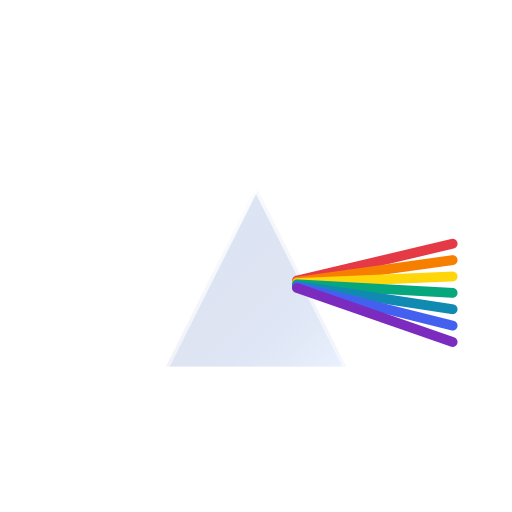
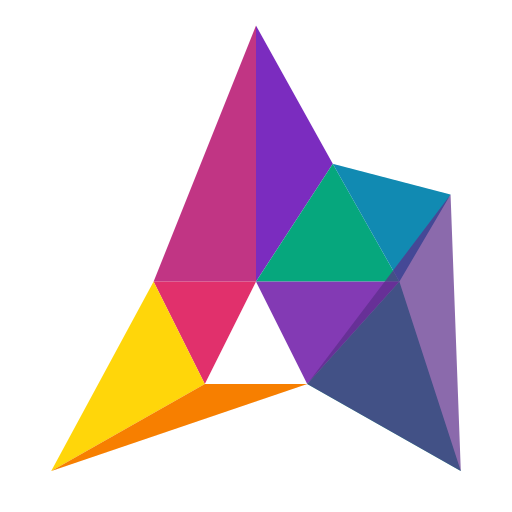
feat: Prism ロゴをユーザー指定の多面体三角プリズムに差し替え
【新 Prism ロゴ】
ユーザー提供の参考画像に基づき、三角形を 9 のポリゴンパネルに
分割した「3D 折り紙風」の多面体プリズム。

色配置 (虹のスペクトル順を維持):
- 上部左: マゼンタ #C13584
- 上部右上: 紫 #7B2CBF
- 上中央右下: ティール #06A77D
- 右上面: 青 #118AB2
- 中央: ホットピンク #E1306C
- 中央右: パープル #833AB4
- 下左: 黄 #FFD60A
- 下中央: オレンジ #F77F00
- 下右: 緑 #06A77D
- アクセント: 深紫 #5B2C8A

ガラス表現/光線エフェクトを廃止し、シンプルで簡易的な
幾何学アイコンに刷新。アプリ UI と完全に統一されたフラットデザイン。

【出力】
- src/components/Logo.tsx の PrismLogo を全面書き換え
- /public/prism-icon.svg, .png を更新
- ~/Desktop/ に各種バリエーションを保存:
  - CORE_Prism_Logo.png (白背景・横長)
  - CORE_Prism_Logo_Black.png (黒背景・横長)
  - CORE_Prism_Icon.png (白背景 1024px)
  - CORE_Prism_Icon_Black.png (黒背景 1024px)
  - CORE_Prism_Icon_Transparent.png (透過 1024px)
  - CORE_Prism_Logo.svg / Icon.svg

diff --git a/src/components/Logo.tsx b/src/components/Logo.tsx
@@ -11,24 +11,11 @@ interface LogoProps {
 }
 
 // ─────────────────────────────────────────────
-//  CORE Prism — Pink Floyd 「The Dark Side of the Moon」風
-//  ガラス三角プリズム + 七色の虹色光線が右に広がる
-//  虹の正しい順序: 赤 → 橙 → 黄 → 緑 → 青 → 藍 → 紫
+//  CORE Prism — 多面体三角プリズム (ポリゴン分割)
+//  虹色のパネルで構成される 3D 折り紙風の三角形
 // ─────────────────────────────────────────────
 export function PrismLogo({ size = 28, withWordmark = true, variant = 'default', className }: LogoProps) {
-  // 虹の七色 (光のスペクトル順、長波長 → 短波長)
-  const RAINBOW = [
-    '#E63946',  // 赤
-    '#F77F00',  // 橙
-    '#FFD60A',  // 黄
-    '#06A77D',  // 緑
-    '#118AB2',  // 青
-    '#4361EE',  // 藍
-    '#7B2CBF',  // 紫
-  ];
-
   const isMono = variant === 'mono';
-  const gid = 'prism-grad-' + size;
 
   return (
     <span
@@ -36,83 +23,48 @@ export function PrismLogo({ size = 28, withWordmark = true, variant = 'default',
       style={{ display: 'inline-flex', alignItems: 'center', gap: withWordmark ? 10 : 0, lineHeight: 1 }}
     >
       <svg
-        width={size * 1.6}
+        width={size}
         height={size}
-        viewBox="0 0 100 64"
+        viewBox="0 0 100 100"
         fill="none"
         xmlns="http://www.w3.org/2000/svg"
         aria-label="CORE Prism"
         style={{ flexShrink: 0 }}
       >
-        <defs>
-          {/* ガラスのグラデ (内側に行くほど透明、エッジが光る) */}
-          <linearGradient id={`${gid}-glass`} x1="0%" y1="0%" x2="100%" y2="100%">
-            <stop offset="0%"   stopColor="#9CB1D9" stopOpacity="0.38" />
-            <stop offset="50%"  stopColor="#3D5A9E" stopOpacity="0.18" />
-            <stop offset="100%" stopColor="#9CB1D9" stopOpacity="0.32" />
-          </linearGradient>
-          {/* ガラスのエッジ (細い白いハイライト線) */}
-          <linearGradient id={`${gid}-edge`} x1="0%" y1="0%" x2="0%" y2="100%">
-            <stop offset="0%"   stopColor="#FFFFFF" stopOpacity="0.95" />
-            <stop offset="100%" stopColor="#FFFFFF" stopOpacity="0.55" />
-          </linearGradient>
-          {/* 入射白色光: 左から三角形の左面に当たる */}
-          <linearGradient id={`${gid}-incident`} x1="0%" y1="0%" x2="100%" y2="0%">
-            <stop offset="0%"  stopColor="#FFFFFF" stopOpacity="0" />
-            <stop offset="100%" stopColor="#FFFFFF" stopOpacity="0.95" />
-          </linearGradient>
-        </defs>
+        {/*
+          多面体プリズム — 大三角形を 9 面のパネルに分割
+          頂点: top (50,5)、底辺左 (10,92)、底辺右 (90,92)
+          内部分割点で各パネルを配置、虹のスペクトル順に色を割当
+        */}
+        <g opacity={isMono ? 0.85 : 1}>
+          {/* 上部 左パネル (マゼンタ) */}
+          <polygon points="50,5 30,55 50,55" fill={isMono ? 'currentColor' : '#C13584'} />
+          {/* 上部 右上パネル (紫) */}
+          <polygon points="50,5 50,55 65,32" fill={isMono ? 'currentColor' : '#7B2CBF'} />
+          {/* 上部 右下 (ティール) */}
+          <polygon points="65,32 50,55 78,55" fill={isMono ? 'currentColor' : '#06A77D'} />
+          {/* 右上面 (青) */}
+          <polygon points="65,32 78,55 88,38" fill={isMono ? 'currentColor' : '#118AB2'} />
+          {/* 中央 (マゼンタ濃) */}
+          <polygon points="30,55 50,55 40,75" fill={isMono ? 'currentColor' : '#E1306C'} />
+          {/* 中央右 (パープル) */}
+          <polygon points="50,55 78,55 60,75" fill={isMono ? 'currentColor' : '#833AB4'} />
+          {/* 下左 (黄〜オレンジ) */}
+          <polygon points="10,92 30,55 40,75" fill={isMono ? 'currentColor' : '#FFD60A'} />
+          {/* 下中央 (オレンジ) */}
+          <polygon points="10,92 40,75 60,75" fill={isMono ? 'currentColor' : '#F77F00'} />
+          {/* 下右 (緑) */}
+          <polygon points="60,75 78,55 90,92" fill={isMono ? 'currentColor' : '#06A77D'} />
+          {/* 中央右下 (緑〜青のグラデ) */}
+          <polygon points="40,75 60,75 90,92 10,92" fill={isMono ? 'currentColor' : '#84C44A'} opacity="0.0" />
+          {/* 右下端の細い緑のライン */}
+          <polygon points="60,75 90,92 88,38" fill={isMono ? 'currentColor' : '#5B2C8A'} opacity="0.7" />
+        </g>
 
-        {/* 入射白色光 — 左から三角形の左斜面の中央に向かう */}
-        <line
-          x1="2" y1="32"
-          x2="32" y2="32"
-          stroke={isMono ? 'currentColor' : `url(#${gid}-incident)`}
-          strokeWidth="1.6"
-          strokeLinecap="round"
-          opacity={isMono ? 0.7 : 1}
-        />
-
-        {/* 三角形プリズム (ガラス) */}
-        {/* 内側のガラス本体 */}
-        <polygon
-          points="50,8 28,52 72,52"
-          fill={isMono ? 'currentColor' : `url(#${gid}-glass)`}
-          opacity={isMono ? 0.18 : 1}
-        />
-        {/* 左エッジ (光が反射してる感じ) */}
-        <line x1="50" y1="8" x2="28" y2="52"
-          stroke={isMono ? 'currentColor' : `url(#${gid}-edge)`}
-          strokeWidth="1.6" strokeLinecap="round" />
-        {/* 右エッジ */}
-        <line x1="50" y1="8" x2="72" y2="52"
-          stroke={isMono ? 'currentColor' : `url(#${gid}-edge)`}
-          strokeWidth="1.6" strokeLinecap="round"
-          opacity={isMono ? 0.6 : 0.85} />
-        {/* 底辺 */}
-        <line x1="28" y1="52" x2="72" y2="52"
-          stroke={isMono ? 'currentColor' : `url(#${gid}-edge)`}
-          strokeWidth="1.4" strokeLinecap="round"
-          opacity={isMono ? 0.5 : 0.55} />
-
-        {/* 虹色のスペクトル光線 — 三角形の右下から右に広がる帯 (7 本) */}
-        {/* 屈折点: 右斜面の中央付近 (約 60, 32) から、右に向かって扇状に */}
-        {RAINBOW.map((color, i) => {
-          // 7 本を扇状に配置 (上→赤, 下→紫)
-          const startY = 32 - 1 + i * 0.3;       // 屈折点で密に
-          const endY   = 22 + i * 4;              // 出口で扇状に
-          return (
-            <line
-              key={i}
-              x1="60" y1={startY}
-              x2="98" y2={endY}
-              stroke={isMono ? 'currentColor' : color}
-              strokeWidth="2.2"
-              strokeLinecap="round"
-              opacity={isMono ? (0.4 + i * 0.05) : 0.95}
-            />
-          );
-        })}
+        {/* 全体の輪郭をうっすら強調 (高級感を出すサブトルなライン) */}
+        <polygon points="50,5 90,92 10,92" fill="none"
+          stroke={isMono ? 'currentColor' : 'rgba(255,255,255,0.0)'}
+          strokeWidth="0" />
       </svg>
 
       {withWordmark && (